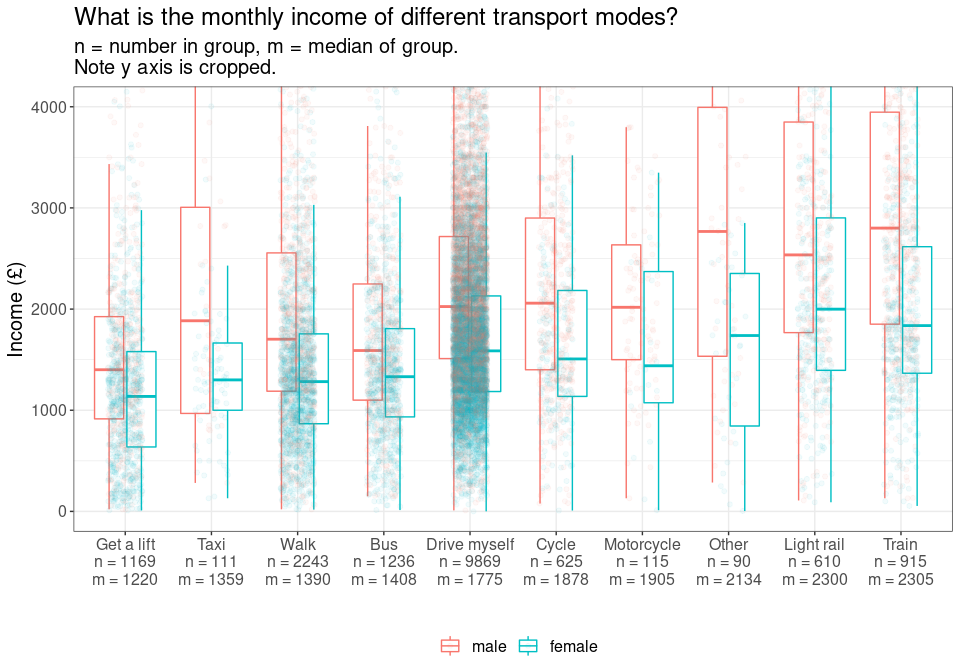
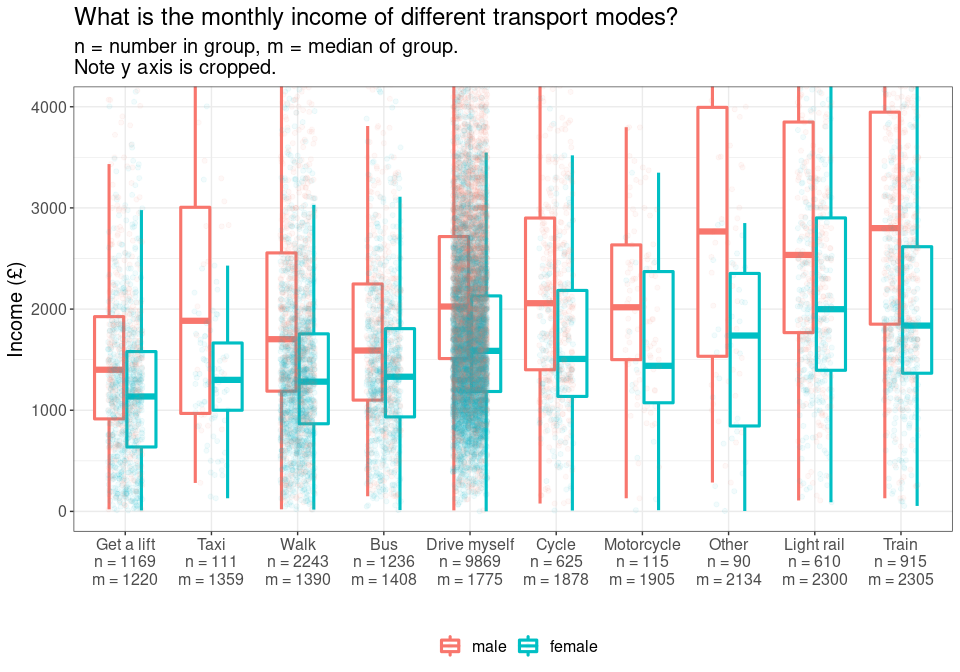
chunkier boxplots

diff --git a/transport_presentation_deets.md b/transport_presentation_deets.md
@@ -136,7 +136,7 @@ df_long %>%
   left_join(y) %>% 
   mutate(lab = fct_reorder(lab, median_in)) %>% 
   ggplot(aes(lab, j_pdvage)) +
-  geom_boxplot() +
+  geom_boxplot(size = 1.1) +
   geom_jitter(width = 0.2, alpha = 0.05) +
   labs(title = "What is the age of respondents using different transport modes?",
        subtitle = "n = number in group, m = median of group.",
@@ -165,7 +165,7 @@ df_long %>%
   left_join(y) %>% 
   mutate(lab = fct_reorder(lab, median_in)) %>% 
   ggplot(aes(lab, j_pdvage, colour = j_sex)) +
-  geom_boxplot() +
+  geom_boxplot(size = 1.1) +
   geom_jitter(width = 0.2, alpha = 0.05) +
   labs(title = "What is the age of respondents using different transport modes?",
        subtitle = "n = number in group, m = median of group.",
@@ -228,7 +228,7 @@ df_long %>%
   left_join(y) %>% 
   mutate(lab = fct_reorder(lab, median_in)) %>% 
   ggplot(aes(lab, j_fimnnet_dv)) +
-  geom_boxplot(outlier.alpha = 0) +
+  geom_boxplot(outlier.alpha = 0, size = 1.1) +
   geom_jitter(width = 0.2, alpha = 0.05) +
   coord_cartesian(ylim = c(0, 4000)) +
   labs(title = "What is the monthly income of different transport modes?",
@@ -259,7 +259,7 @@ df_long %>%
   left_join(y) %>% 
   mutate(lab = fct_reorder(lab, median_in)) %>% 
   ggplot(aes(lab, j_fimnnet_dv, colour = j_sex)) +
-  geom_boxplot(outlier.alpha = 0) +
+  geom_boxplot(outlier.alpha = 0, size = 1.1) +
   geom_jitter(width = 0.2, alpha = 0.05) +
   coord_cartesian(ylim = c(0, 4000)) +
   labs(title = "What is the monthly income of different transport modes?",
